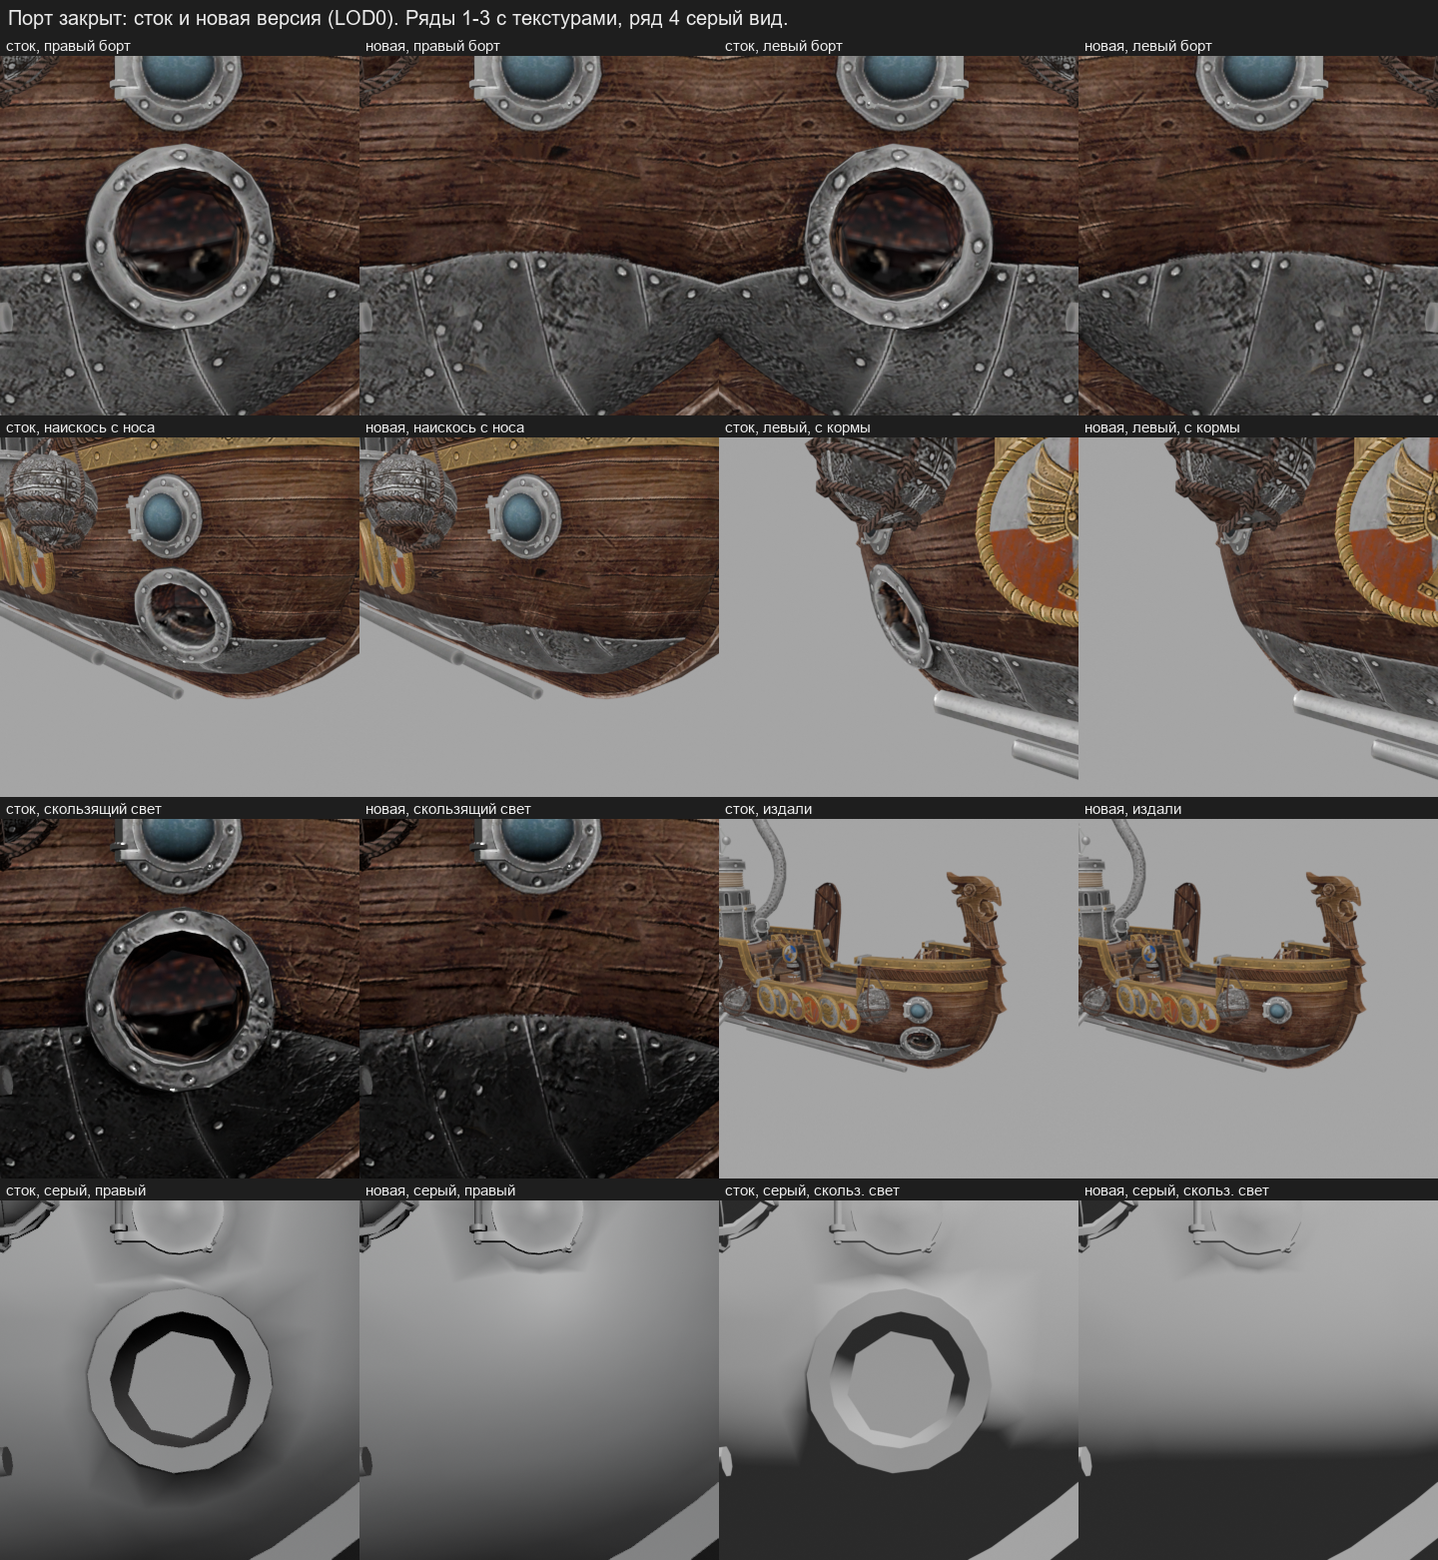
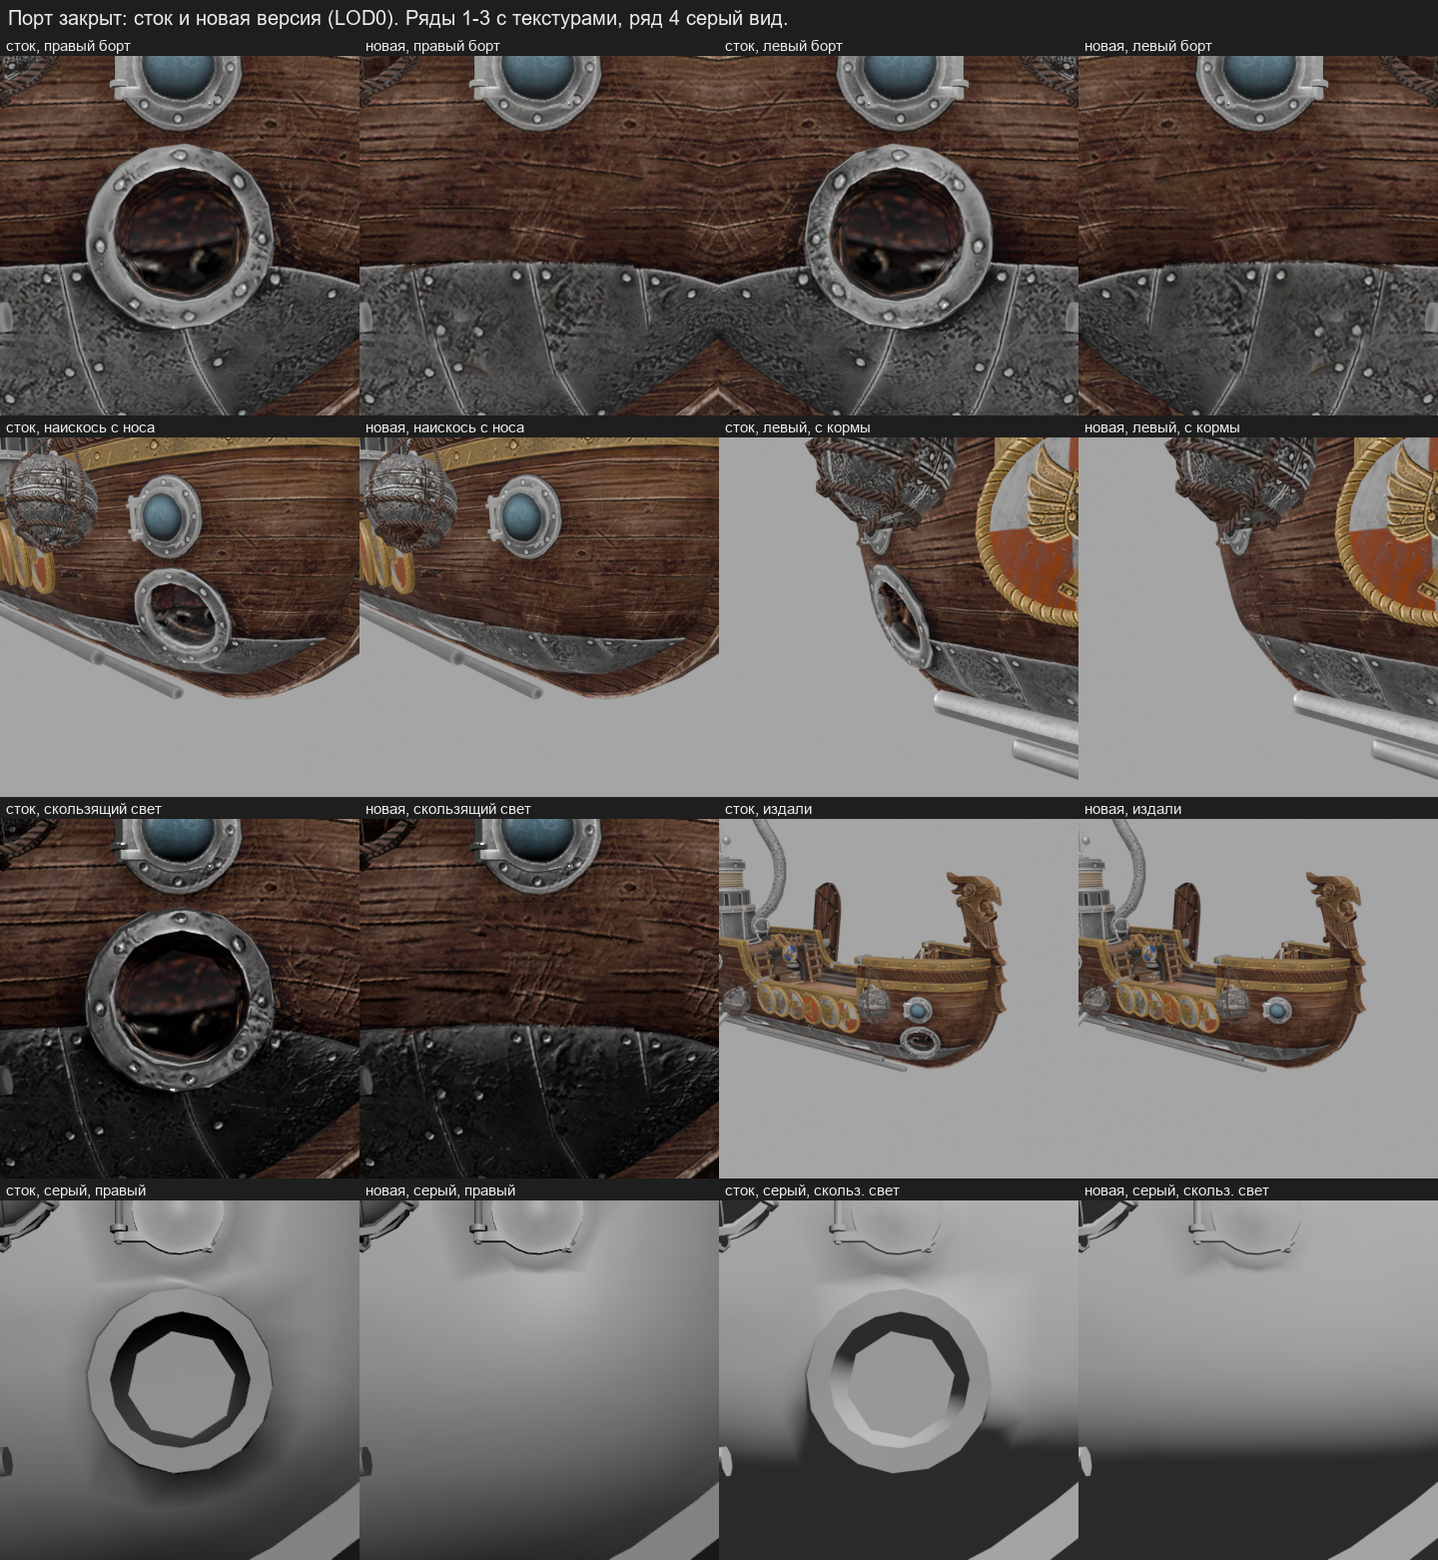
Smooth the steel belt edge over the closed port
The patch UV now runs smoothly across the patch, and the steel fill
matches the surrounding gloss. Loose ring edges are dropped from the
working meshes.

diff --git a/tools/blender_skill_tex.py b/tools/blender_skill_tex.py
@@ -46,7 +46,8 @@ if __name__ == "__main__":
 #         parallel and are the very planks of the neighbourhood);
 #   steel: along the belt's top edge (y = e(x) + t; the fill keeps t, so the edge, the rivet row and the plate seams
 #         continue; the shift is one plate seam spacing so a seam lands where the stock seam enters the disc).
-# Tone is checked (medians of the fill against a ring just outside, per material), not shifted.
+# Tone is checked (medians of the fill against a ring just outside, per material); the material map (metal, gloss)
+# is shifted to the ring's medians, base colour and normal are not.
 BOX = (896, 3584, 1280, 3968)        # rewritten box at level 0 (aligned to 128 so mips stay block aligned)
 WIN = (640, 3456, 1664, 4096)        # read window for the sources
 CENTRE, R, FEATHER = (1052.0, 3787.0), 94.0, 16.0
@@ -201,8 +202,11 @@ def fix():
             sel = ring & (steel == cls)                              # the sources are the same planks and plates nearby)
             insel = (m > 0.99) & (steel == cls)
             if sel.sum() > 50 and insel.sum() > 50:
+                ring_med, fill_med = np.median(img[sel], 0), np.median(fill[insel], 0)
                 report[f"{name}_mean_{'steel' if cls else 'wood'}_ring_vs_fill"] = [
-                    [round(float(x), 1) for x in np.median(img[sel], 0)], [round(float(x), 1) for x in np.median(fill[insel], 0)]]
+                    [round(float(x), 1) for x in ring_med], [round(float(x), 1) for x in fill_med]]
+                if name == "material_map":                           # gloss must match, or the fill shines in spots
+                    fill[steel == cls] += (ring_med - fill_med)[None, :]
         res = img * (1 - m[..., None]) + fill * m[..., None]
         out[name] = np.clip(res, 0, 255)
         bx0, by0 = BOX[0] - WIN[0], BOX[1] - WIN[1]

diff --git a/tools/blender_skill_fill_port.py b/tools/blender_skill_fill_port.py
@@ -458,3 +458,23 @@ def measure(li, ctx, radius=1.15):
                     fd.append(math.degrees(math.acos(np.clip(np.dot(s_n, np.array(f.normal)), -1, 1))))
             out[tag]["patch_face_vs_field_deg_mean_max"] = [round(float(np.mean(fd)), 1), round(float(np.max(fd)), 1)] if fd else None
     return out
+
+
+def drop_loose(li):
+    """Deletes the edges and vertices that the removed port faces leave behind (FACES_ONLY keeps them, so the stock
+    indices stay put while both sides are filled). Blender draws loose edges as lines in every shading mode; the
+    written model never had them (only used vertices are written). Call after both sides of a LOD are done."""
+    me = bpy.data.objects[f"GEO-lod{li}"].data
+    bm = bmesh.new()
+    bm.from_mesh(me)
+    loose_e = [e for e in bm.edges if not e.link_faces]
+    bmesh.ops.delete(bm, geom=loose_e, context="EDGES")
+    loose_v = [v for v in bm.verts if not v.link_faces]
+    bmesh.ops.delete(bm, geom=loose_v, context="VERTS")
+    bm.to_mesh(me)
+    bm.free()
+    nr = np.empty(len(me.vertices) * 3)
+    me.attributes["nrm"].data.foreach_get("vector", nr)
+    me.normals_split_custom_set_from_vertices([tuple(x) for x in nr.reshape(-1, 3)])
+    me.update()
+    return len(loose_e), len(loose_v)
